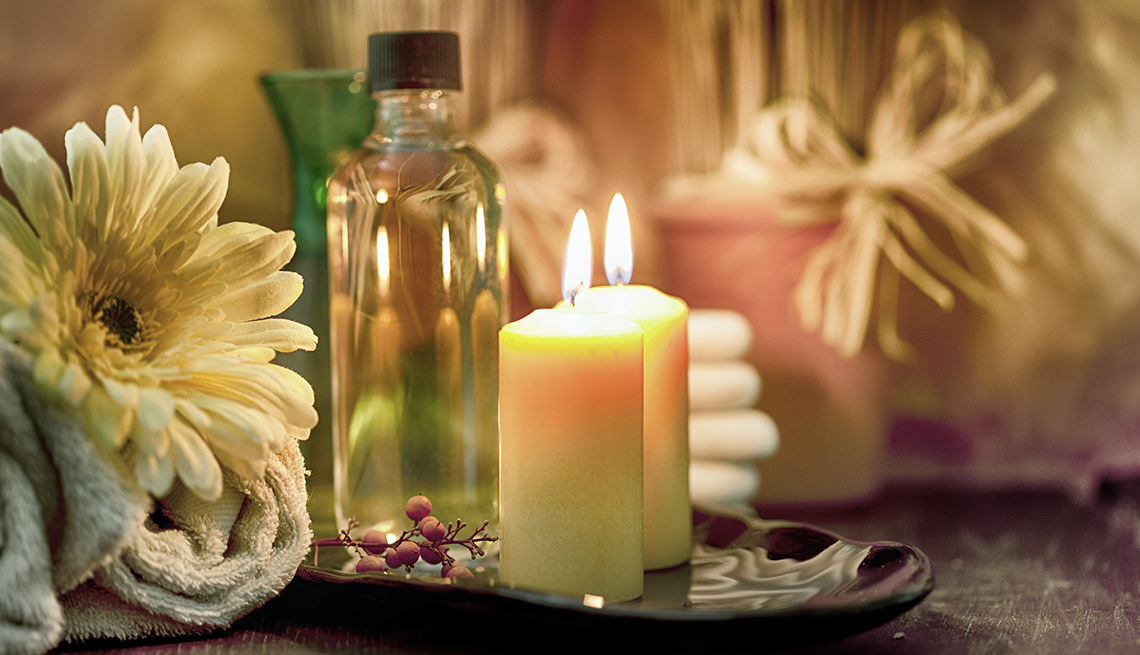
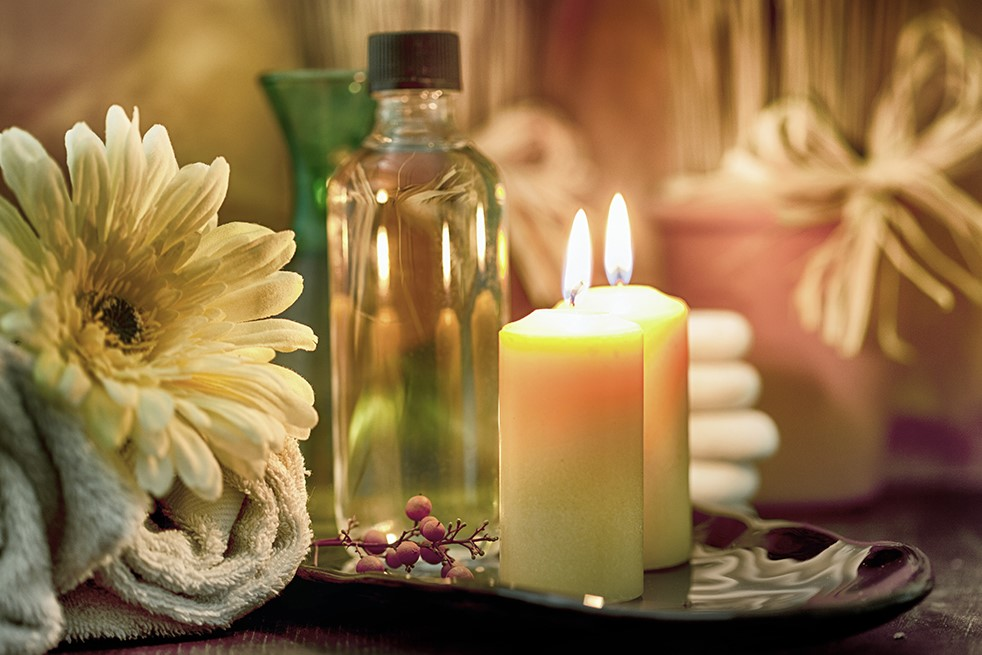
corrigiendo carousel index

diff --git a/index.html b/index.html
@@ -46,54 +46,56 @@
         </nav>
     </header>
 
-    
+
+      <section class="contenedor-carousel">
         <div id="carouselExampleCaptions" class="carousel slide">
-            <div class="carousel-indicators">
-              <button type="button" data-bs-target="#carouselExampleCaptions" data-bs-slide-to="0" class="active" aria-current="true" aria-label="Slide 1"></button>
-              <button type="button" data-bs-target="#carouselExampleCaptions" data-bs-slide-to="1" aria-label="Slide 2"></button>
-              <button type="button" data-bs-target="#carouselExampleCaptions" data-bs-slide-to="2" aria-label="Slide 3"></button>
-              <button type="button" data-bs-target="#carouselExampleCaptions" data-bs-slide-to="3" aria-label="Slide 4"></button>
-            </div>
-            <div class="carousel-inner">
-              <div class="carousel-item active">
-                <img src="./IMG/imagen1.jpg" class="d-block w-100" alt="servicios">
-                <div class="carousel-caption d-none d-md-block">
-                  <h5>Servicios</h5>
-                  <p>servicios</p>
-                </div>
-              </div>
-              <div class="carousel-item">
-                <img src="./IMG/imagen2.png" class="d-block w-100" alt="quienes somos">
-                <div class="carousel-caption d-none d-md-block">
-                  <h5>Quienes Somos</h5>
-                  <p>Descubrenos!</p>
-                </div>
-              </div>
-              <div class="carousel-item">
-                <img src="./IMG/imagen3.jpg" class="d-block w-100" alt="noticias">
-                <div class="carousel-caption d-none d-md-block">
-                  <h5>Noticias</h5>
-                  <p>noticias</p>
-                </div>
-              </div>
-              <div class="carousel-item">
-                <img src="./IMG/imagen4.jpg" class="d-block w-100" alt="Empleo">
-                <div class="carousel-caption d-none d-md-block">
-                  <h5>Empleo</h5>
-                  <p>mandanos tu cv</p>
-                </div> 
-              </div>
-            </div>
-            <button class="carousel-control-prev" type="button" data-bs-target="#carouselExampleCaptions" data-bs-slide="prev">
-              <span class="carousel-control-prev-icon" aria-hidden="true"></span>
-              <span class="visually-hidden">Previous</span>
-            </button>
-            <button class="carousel-control-next" type="button" data-bs-target="#carouselExampleCaptions" data-bs-slide="next">
-              <span class="carousel-control-next-icon" aria-hidden="true"></span>
-              <span class="visually-hidden">Next</span>
-            </button>
+          <div class="carousel-indicators">
+            <button type="button" data-bs-target="#carouselExampleCaptions" data-bs-slide-to="0" class="active" aria-current="true" aria-label="Slide 1"></button>
+            <button type="button" data-bs-target="#carouselExampleCaptions" data-bs-slide-to="1" aria-label="Slide 2"></button>
+            <button type="button" data-bs-target="#carouselExampleCaptions" data-bs-slide-to="2" aria-label="Slide 3"></button>
+            <button type="button" data-bs-target="#carouselExampleCaptions" data-bs-slide-to="3" aria-label="Slide 4"></button>
           </div>
-  
+          <div class="carousel-inner">
+            <div class="carousel-item active">
+              <img src="./IMG/imagen1.jpg" class="d-block w-100" alt="servicios">
+              <div class="carousel-caption d-none d-md-block">
+                <h5>Servicios</h5>
+                <p>servicios</p>
+              </div>
+            </div>
+            <div class="carousel-item">
+              <img src="./IMG/imagen2.png" class="d-block w-100" alt="quienes somos">
+              <div class="carousel-caption d-none d-md-block">
+                <h5>Quienes Somos</h5>
+                <p>Descubrenos!</p>
+              </div>
+            </div>
+            <div class="carousel-item">
+              <img src="./IMG/imagen3.jpg" class="d-block w-100" alt="noticias">
+              <div class="carousel-caption d-none d-md-block">
+                <h5>Noticias</h5>
+                <p>noticias</p>
+              </div>
+            </div>
+            <div class="carousel-item">
+              <img src="./IMG/imagen4.jpg" class="d-block w-100" alt="Empleo">
+              <div class="carousel-caption d-none d-md-block">
+                <h5>Empleo</h5>
+                <p>Mandanos tu cv</p>
+              </div> 
+            </div>
+          </div>
+          <button class="carousel-control-prev" type="button" data-bs-target="#carouselExampleCaptions" data-bs-slide="prev">
+            <span class="carousel-control-prev-icon" aria-hidden="true"></span>
+            <span class="visually-hidden">Previous</span>
+          </button>
+          <button class="carousel-control-next" type="button" data-bs-target="#carouselExampleCaptions" data-bs-slide="next">
+            <span class="carousel-control-next-icon" aria-hidden="true"></span>
+            <span class="visually-hidden">Next</span>
+          </button>
+        </div>
+      </section>
+        
 
 
     <!-- footer -->

diff --git a/CSS/style.css b/CSS/style.css
@@ -209,3 +209,13 @@ body {
 .carousel-buttons button:hover {
     background-color: #24683d;
 }
+
+.contenedor-carousel{
+  width: 50%;
+  height: 10%;
+    margin: 0 auto;
+    overflow: hidden; 
+    border-radius: 10px;
+    position: relative;
+    box-shadow: 0 4px 10px rgba(0, 0, 0, 0.1);
+}
